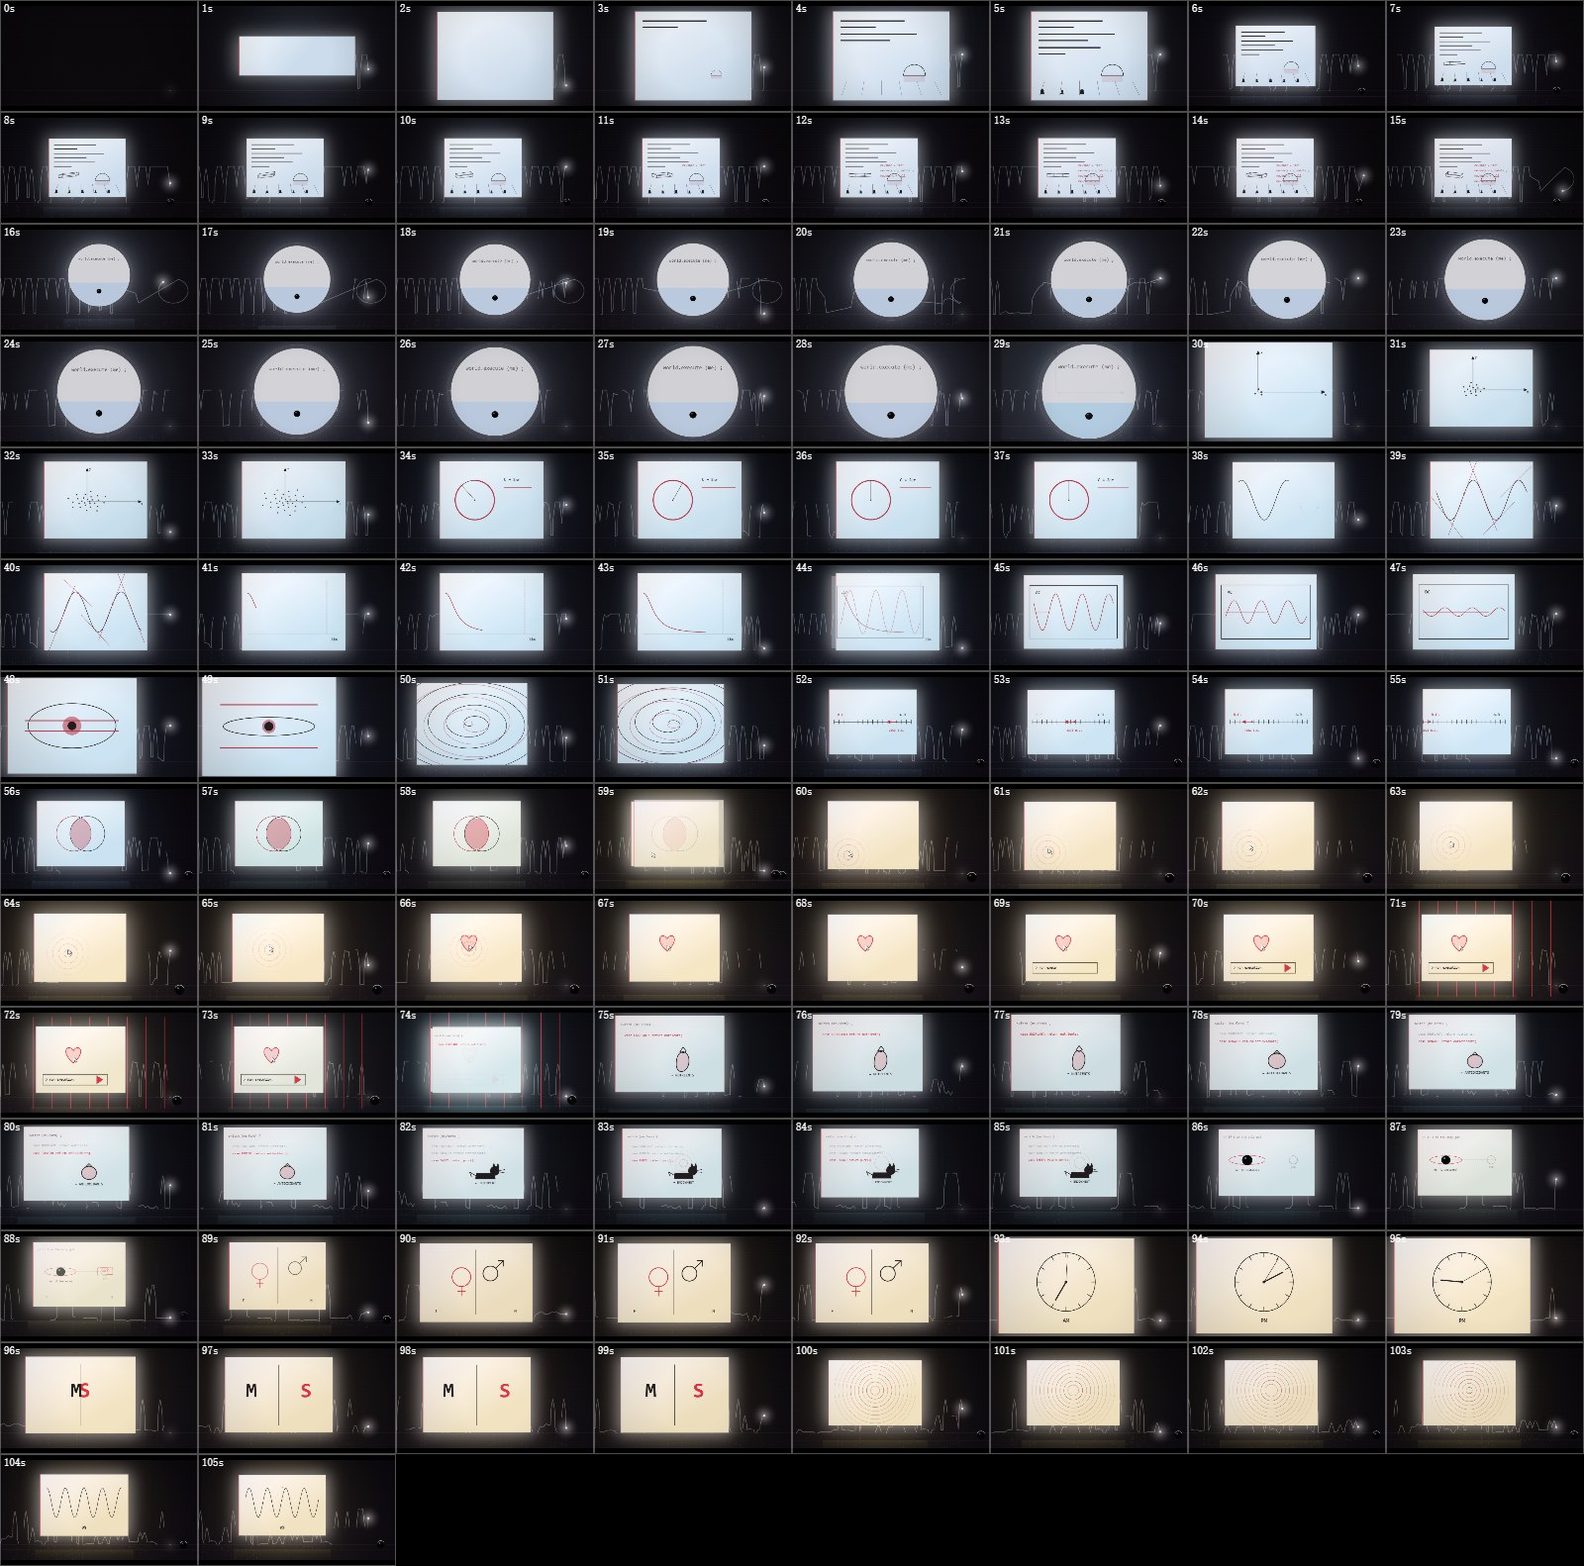
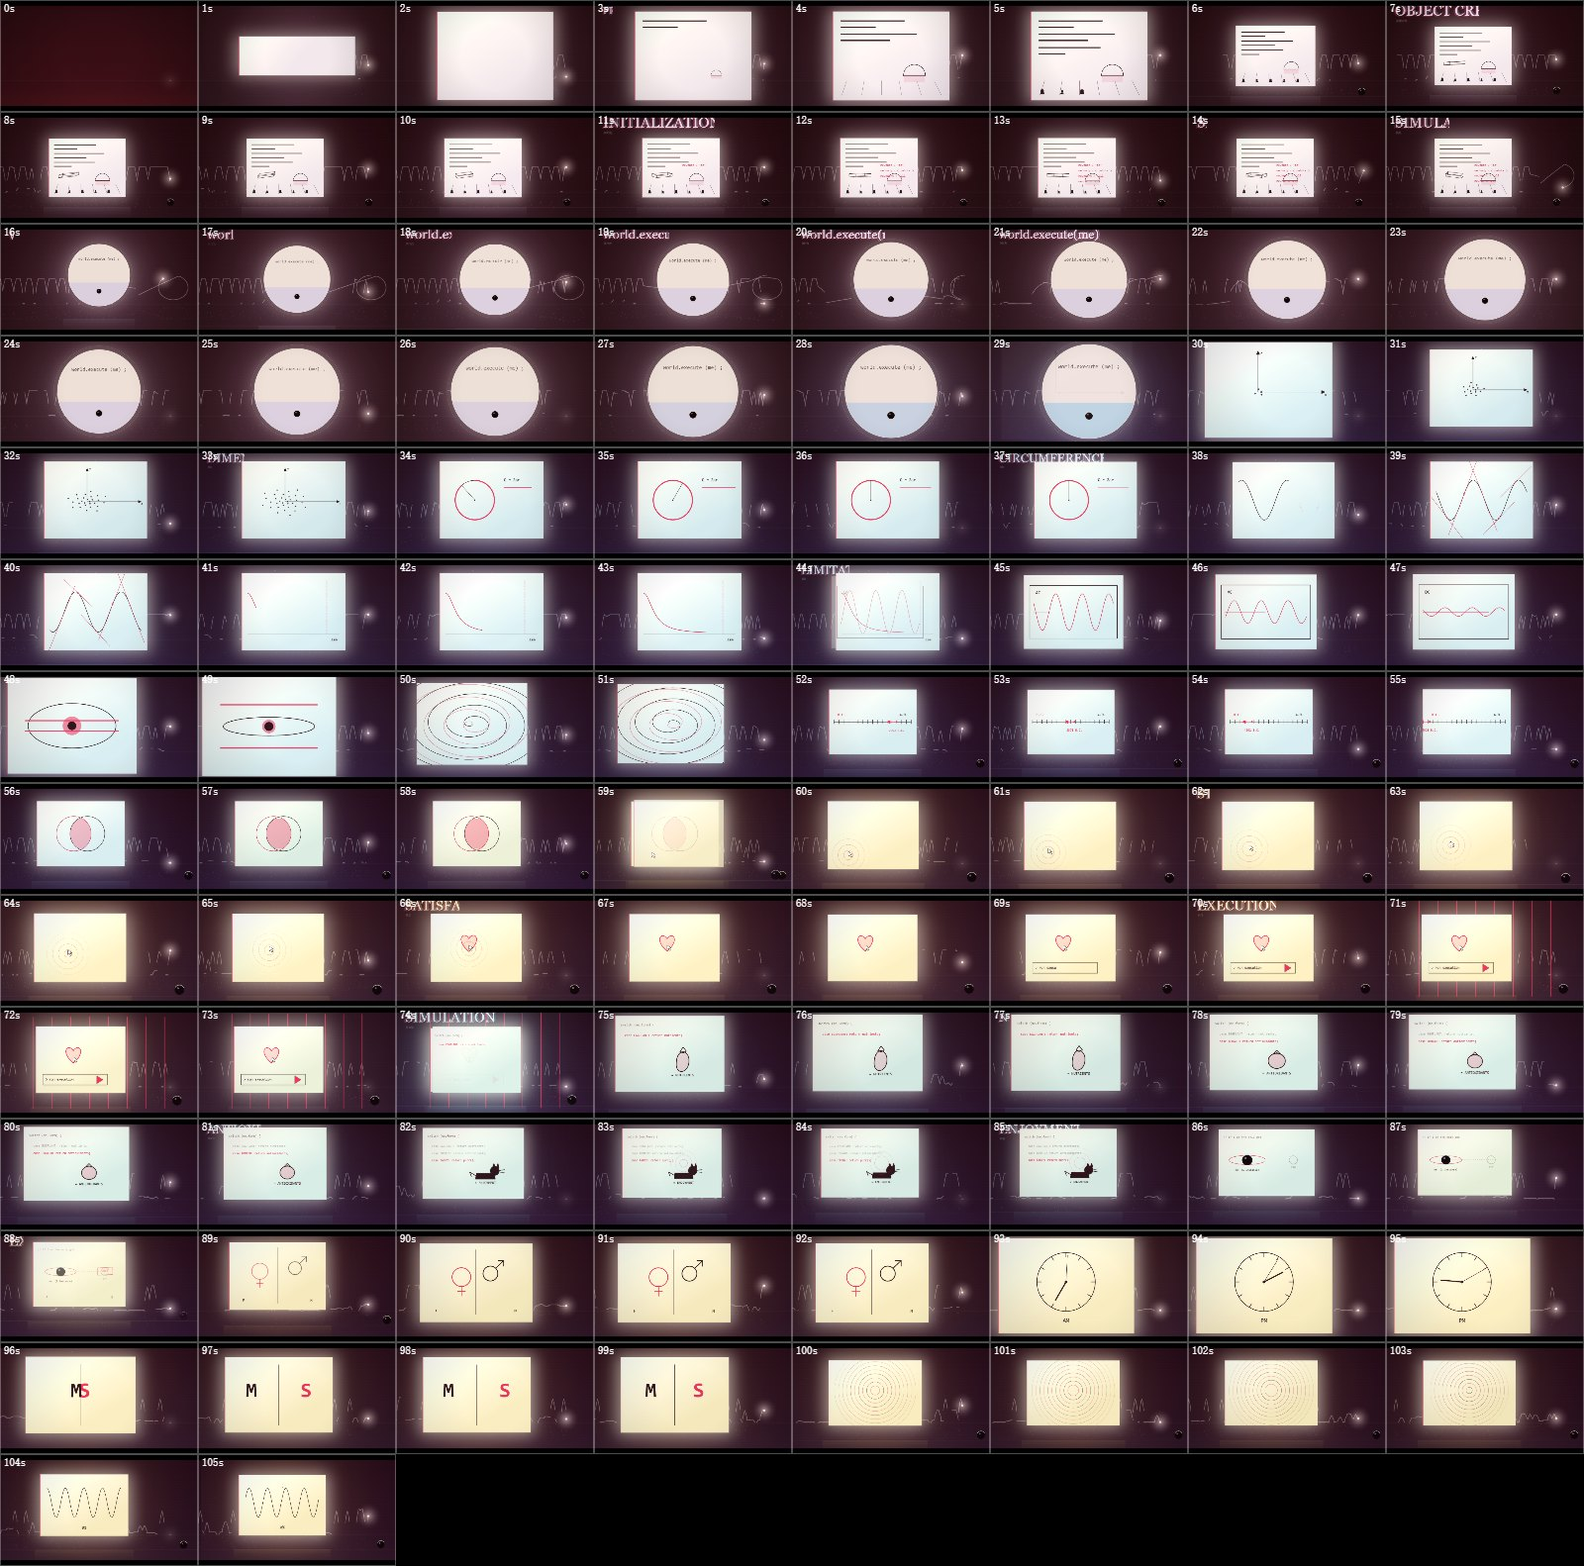
Study the two reference MVs, then break my own composition premise Pulled 16 frames each from the DeepSeek V4.1 Flash cut (Galen563, source public) and the Qwen 3.8 Flash-Next cut (OuTO7) by drawing the player's <video> into a canvas, and both converge on the same language: one colour owning the who
analysis/scroll.html builds that as a candidate: full-bleed fields, the measured melody
as one ink line on a long sheet, a camera sliding along the time axis. It disproved its
own premise -- raw f0 at 13 s per frame is a barcode, not a tune -- but it proved the
colour field and the cropped word. So only those two came back into the film:

- the room is no longer near-black; each section floods the frame with its own colour
- the stroke is quantised to semitones and breaks the pen on leaps over a major third,
  which also fixes the arpeggio passages that always read as a fence

Sweep: 25,429 frames, 0 black, 0 blown, 0 exceptions, 0 unattributed flashes; motion
0.70->0.43, minimum luminance 10->34.

diff --git a/analysis/scroll.html b/analysis/scroll.html
@@ -1,0 +1,197 @@
+<!DOCTYPE html>
+<html lang="zh-CN">
+<head>
+<meta charset="utf-8">
+<title>scroll — the camera inside the sheet</title>
+<style>
+  body { background: #0d0f14; color: #cdd6f4; font: 13px/1.6 ui-monospace, Consolas, monospace; margin: 20px; }
+  canvas { display: block; background: #000; width: 960px; margin: 10px 0; }
+</style>
+</head>
+<body>
+<h1>候选 v5：满幅色场 + 沿时间轴滑行的摄影机</h1>
+<p>两张参考联系表给出的共同结论：占满画面的颜色、巨大的居中词、仪表框、遥读列。
+这一版把"黑房里一张小亮纸"换掉——整首歌的实测旋律是纸上的一条墨线，画面是沿它向右滑行的窗口。
+<button onclick="go()">render</button> <span id="st"></span></p>
+<div id="out"></div>
+<script src="../mv/music.data.js"></script>
+<script src="../mv/lyrics.js"></script>
+<script>
+const M = window.MUSIC, META = M.meta, HOP = META.hop / META.sr;
+const SW = 12000, SH = 900;                         /* the sheet: 56.65 px per second of music */
+const VW = 1920, VH = 1080, Z = 2.6;                /* the window sees 738 x 415 sheet px = 13 s */
+const PERS = SW / META.dur;
+const RY = SH * 0.62, SPAN = SH * 0.34;             /* the rail, and how tall a figure may be */
+const clamp = (v, a, b) => v < a ? a : v > b ? b : v;
+const hex = (s) => [parseInt(s.slice(1, 3), 16), parseInt(s.slice(3, 5), 16), parseInt(s.slice(5, 7), 16)];
+const rgba = (s, a) => { const c = hex(s); return `rgba(${c[0]},${c[1]},${c[2]},${a})`; };
+
+/* one colour owns the frame; it changes where the song changes argument */
+function plate(t) {
+  if (t < 15) return { bg: '#10151c', ink: '#dfe7ef', red: '#e0455c', glow: '#7fa8cc', hot: 0.9 };
+  if (t < 44.45) return { bg: '#12233a', ink: '#e6eef7', red: '#e8506a', glow: '#5b9bd0', hot: 1.0 };   /* theorem */
+  if (t < 59.22) return { bg: '#1a2c3f', ink: '#eaf2f8', red: '#e8506a', glow: '#63a6cf', hot: 1.0 };   /* condition */
+  if (t < 74.04) return { bg: '#3a1420', ink: '#fbe9e0', red: '#ff5c72', glow: '#d9748a', hot: 1.15 };  /* chorus */
+  if (t < 88.58) return { bg: '#22301f', ink: '#eef5e6', red: '#e0685c', glow: '#8fbf7a', hot: 1.0 };   /* flesh */
+  if (t < 110.9) return { bg: '#2b1f38', ink: '#f0eaf8', red: '#e8506a', glow: '#a583d0', hot: 1.05 };  /* switches */
+  if (t < 131.22) return { bg: '#33241a', ink: '#f6ead6', red: '#e0603c', glow: '#c08a4e', hot: 0.85 }; /* absence */
+  if (t < 147.66) return { bg: '#0e1013', ink: '#c8d2da', red: '#9c3a48', glow: '#4e5f70', hot: 0.45 }; /* void */
+  if (t < 169.82) return { bg: '#6e0f1e', ink: '#ffe9e4', red: '#ff8f6a', glow: '#ff5c44', hot: 1.3 };  /* execution */
+  if (t < 177.24) return { bg: '#3d1420', ink: '#f7e2e6', red: '#ff6b78', glow: '#c9536a', hot: 1.0 };  /* rewind */
+  if (t < 193) return { bg: '#241f42', ink: '#eae7fb', red: '#e8506a', glow: '#7f7fd0', hot: 1.0 };     /* love */
+  return { bg: '#171013', ink: '#d8c6b4', red: '#a8402c', glow: '#6b4a34', hot: 0.5 };                  /* out */
+}
+function pitchAt(t) {
+  const i = t / HOP; if (i < 4 || i >= META.frames - 4) return 0;
+  const k = Math.floor(i / 4), f = i / 4 - k;
+  const a = M.f0[k * 4], b = M.f0[(k + 1) * 4]; if (!a || !b) return 0;
+  const hz = ((a + (b - a) * f) + (a + b) * 0.25) / 2.5 / 255 * 1100;
+  return hz > 55 ? hz : 0;
+}
+const ryOf = (hz) => RY - clamp(Math.log2(hz / 55) / Math.log2(1100 / 55), 0, 1) * SPAN;
+const barOf = (t) => (t - M.beat[0]) / (240 / META.bpm) + 1;
+
+/* figures and words, printed at their own moment on the sheet */
+const PRINT = [];
+window.LYRICS.forEach((l, i) => {
+  const caps = /^[A-Z0-9 .!?-]{4,}$/.test(l.en), title = l.en.indexOf('world.execute') >= 0;
+  if (!caps && !title) return;
+  const nxt = window.LYRICS[i + 1];
+  PRINT.push({ t: l.at, to: nxt ? Math.min(nxt.at, l.at + (title ? 5.4 : 3.0)) : l.at + 3.0, kind: 'word', w: l.en, cn: l.cn });
+});
+[['circle', 33.41], ['sine', 37.06], ['asym', 40.7], ['eye', 47.67], ['clock', 51.36], ['heart', 65.39],
+ ['specimen', 74.04], ['specimen', 77.57], ['specimen', 81.35], ['glyphs', 88.58], ['rings', 99.34],
+ ['star', 110.9], ['cutheart', 124.89], ['trace', 131.22], ['colonnade', 147.66], ['six', 158.9],
+ ['queue', 162.63], ['eq', 184.54], ['pane', 193]].forEach((p) => PRINT.push({ t: p[1], to: p[1] + 4.6, kind: p[0] }));
+
+function figure(g, m, P, h) {
+  g.lineWidth = 4; g.strokeStyle = P.ink; g.fillStyle = P.ink; g.textAlign = 'left';
+  if (m.kind === 'circle') { g.beginPath(); g.arc(0, 0, h * 0.40, 0, 6.283); g.stroke();
+    g.strokeStyle = P.red; g.lineWidth = 11; g.beginPath(); g.arc(0, 0, h * 0.40, -1.57, 2.3); g.stroke(); }
+  else if (m.kind === 'sine') { g.beginPath(); for (let i = 0; i <= 90; i++) { const u = i / 90, px = -h * 0.8 + u * h * 1.6, py = Math.sin(u * 6.283 * 1.5) * h * 0.28; i ? g.lineTo(px, py) : g.moveTo(px, py); } g.stroke(); }
+  else if (m.kind === 'asym') { g.beginPath(); for (let i = 0; i <= 90; i++) { const u = i / 90, px = -h * 0.8 + u * h * 1.6, py = h * 0.3 - h * 0.55 / (1 + Math.pow(u * 4.2, 2)); i ? g.lineTo(px, py) : g.moveTo(px, py); } g.stroke();
+    g.setLineDash([14, 14]); g.strokeStyle = P.red; g.lineWidth = 5; g.beginPath(); g.moveTo(h * 0.56, -h * 0.42); g.lineTo(h * 0.56, h * 0.36); g.stroke(); g.setLineDash([]); }
+  else if (m.kind === 'eye') { g.beginPath(); g.ellipse(0, 0, h * 0.62, h * 0.26, 0, 0, 6.283); g.stroke(); g.fillStyle = P.red; g.beginPath(); g.arc(0, 0, h * 0.11, 0, 6.283); g.fill(); }
+  else if (m.kind === 'clock') { g.beginPath(); g.arc(0, 0, h * 0.36, 0, 6.283); g.stroke(); g.lineWidth = 7; g.beginPath(); g.moveTo(0, 0); g.lineTo(0, -h * 0.26); g.moveTo(0, 0); g.lineTo(h * 0.18, h * 0.06); g.stroke(); }
+  else if (m.kind === 'heart' || m.kind === 'cutheart') { const r = h * 0.3; g.lineWidth = 7; g.strokeStyle = P.red;
+    g.beginPath(); g.moveTo(0, r * 0.85); g.bezierCurveTo(-r * 1.35, -r * 0.25, -r * 0.5, -r * 1.15, 0, -r * 0.35);
+    g.bezierCurveTo(r * 0.5, -r * 1.15, r * 1.35, -r * 0.25, 0, r * 0.85); g.closePath(); g.stroke();
+    if (m.kind === 'cutheart') { g.fillStyle = P.bg; g.beginPath(); g.moveTo(0, 0); g.arc(0, 0, r * 1.02, -1.97, -1.17); g.closePath(); g.fill(); } }
+  else if (m.kind === 'specimen') { g.lineWidth = 4; g.beginPath(); g.ellipse(0, h * 0.06, h * 0.2, h * 0.3, 0.2, 0, 6.283); g.stroke();
+    g.beginPath(); g.moveTo(-h * 0.06, -h * 0.24); g.lineTo(h * 0.04, -h * 0.38); g.lineTo(h * 0.14, -h * 0.22); g.stroke(); }
+  else if (m.kind === 'glyphs') { g.beginPath(); g.arc(-h * 0.26, -h * 0.08, h * 0.17, 0, 6.283); g.stroke();
+    g.beginPath(); g.arc(h * 0.26, -h * 0.14, h * 0.14, 0, 6.283); g.stroke();
+    g.beginPath(); g.moveTo(h * 0.36, -h * 0.04); g.lineTo(h * 0.48, -h * 0.16); g.moveTo(h * 0.42, -h * 0.16); g.lineTo(h * 0.42, -h * 0.02); g.stroke(); }
+  else if (m.kind === 'rings') { for (let i = 1; i <= 4; i++) { g.globalAlpha = 1 - i * 0.18; g.beginPath(); g.arc(0, 0, h * 0.12 * i, 0, 6.283); g.stroke(); } g.globalAlpha = 1; }
+  else if (m.kind === 'star') { for (let i = 0; i < 6; i++) { const a = -1.57 + i * 1.047;
+      g.lineWidth = 4; g.beginPath(); g.moveTo(0, 0); g.lineTo(Math.cos(a) * h * 0.42, Math.sin(a) * h * 0.34); g.stroke();
+      g.beginPath(); g.arc(Math.cos(a) * h * 0.42, Math.sin(a) * h * 0.34, h * 0.05, 0, 6.283); g.fill(); }
+    g.strokeStyle = P.red; g.beginPath(); g.arc(0, 0, h * 0.1, 0, 6.283); g.stroke(); }
+  else if (m.kind === 'trace') { g.strokeStyle = P.red; g.lineWidth = 4; g.strokeRect(-h * 0.52, -h * 0.4, h * 1.04, h * 0.7);
+    g.fillStyle = P.red; g.font = `500 ${h * 0.1}px ui-monospace,monospace`;
+    ['IllegalArgumentError', '  at world.execute(me.js:11)', '  at you.leave(me.js:14)', '  at me.love(me.js:7)'].forEach((s, i) =>
+      g.fillText(s, -h * 0.46, -h * 0.24 + i * h * 0.16)); }
+  else if (m.kind === 'colonnade') { for (let i = 0; i < 9; i++) { const x = -h * 0.8 + i * h * 0.2;
+      g.fillStyle = rgba(P.ink, 0.5); g.fillRect(x, -h * 0.44, h * 0.09, h * 0.88); } }
+  else if (m.kind === 'six') { g.textAlign = 'center'; g.font = `700 ${h * 0.3}px Georgia,serif`;
+    ['I', 'II', 'III'].forEach((s, i) => g.fillText(s, -h * 0.4 + i * h * 0.4, h * 0.1)); }
+  else if (m.kind === 'queue') { g.fillStyle = P.red; g.beginPath(); g.arc(h * 0.3, -h * 0.28, h * 0.07, 0, 6.283); g.fill();
+    for (let i = 0; i < 7; i++) { const x = -h * 0.6 + i * h * 0.16; g.strokeStyle = rgba(P.ink, 0.55); g.lineWidth = 2;
+      g.beginPath(); g.moveTo(x, 0); g.lineTo(h * 0.3, -h * 0.28); g.stroke(); g.beginPath(); g.arc(x, 0, h * 0.035, 0, 6.283); g.fill(); } }
+  else if (m.kind === 'eq') { g.font = `400 ${h * 0.16}px ui-monospace,monospace`; g.fillStyle = P.ink;
+    g.fillText('love(x) = lim x->inf', -h * 0.5, -h * 0.3); }
+  else if (m.kind === 'pane') { g.strokeStyle = P.ink; g.lineWidth = 4; g.strokeRect(-h * 0.2, -h * 0.3, h * 0.4, h * 0.5);
+    g.beginPath(); g.moveTo(0, -h * 0.3); g.lineTo(0, h * 0.2); g.moveTo(-h * 0.2, -h * 0.05); g.lineTo(h * 0.2, -h * 0.05); g.stroke(); }
+}
+
+function frame(t) {
+  const cv = document.createElement('canvas'); cv.width = VW; cv.height = VH;
+  const g = cv.getContext('2d');
+  const P = plate(t), span = VW / Z, camC = t * PERS;
+  g.fillStyle = P.bg; g.fillRect(0, 0, VW, VH);
+  g.save();
+  g.setTransform(Z, 0, 0, Z, VW / 2 - Z * camC, VH / 2 - Z * RY);
+  g.strokeStyle = rgba(P.ink, 0.18); g.lineWidth = 1.5;
+  g.beginPath(); g.moveTo(camC - span, RY); g.lineTo(camC + span, RY); g.stroke();
+  for (const m of PRINT) { if (m.kind === 'word') continue;
+    const x = m.t * PERS; if (x < camC - span * 0.62 || x > camC + span * 0.62) continue;
+    g.save(); g.translate(x, RY - SPAN * 0.5); figure(g, m, P, SPAN); g.restore(); }
+  g.lineWidth = 3.2; g.lineJoin = 'round'; g.lineCap = 'round'; g.strokeStyle = rgba(P.ink, 0.9);
+  let run = [];
+  const flush = () => { if (run.length > 1) { g.beginPath(); run.forEach((p, i) => i ? g.lineTo(p[0], p[1]) : g.moveTo(p[0], p[1])); g.stroke(); } run = []; };
+  for (let u = Math.max(0, t - 14); u < Math.min(META.dur, t + 14); u += 0.02) {
+    const hz = pitchAt(u); if (!hz) { flush(); continue; } run.push([u * PERS, ryOf(hz)]);
+  }
+  flush();
+  g.restore();
+  /* the word being sung: enormous, cropped by the frame */
+  const w = PRINT.find((m) => m.kind === 'word' && t >= m.t && t < m.to);
+  if (w) {
+    const u = clamp((t - w.t) / (w.to - w.t), 0, 1), size = VH * 0.19;
+    const x = (w.t * PERS - camC) * Z + VW * 0.06, y = VH * 0.24;
+    g.save(); g.textAlign = 'left'; g.textBaseline = 'middle';
+    g.font = `300 ${size}px Georgia,"Times New Roman",serif`;
+    g.beginPath(); g.rect(0, 0, x + 20 + g.measureText(w.w).width * u + 6, VH); g.clip();
+    g.fillStyle = rgba(P.red, 0.5); g.fillText(w.w, x - 6, y + 4);
+    g.fillStyle = rgba(P.glow, 0.5); g.fillText(w.w, x + 6, y - 4);
+    g.fillStyle = rgba(P.ink, 0.95); g.fillText(w.w, x, y);
+    g.restore();
+    g.save(); g.globalAlpha = clamp(u * 2); g.fillStyle = rgba(P.ink, 0.45);
+    g.font = `300 ${Math.round(size * 0.16)}px Georgia,serif`; g.textAlign = 'left'; g.textBaseline = 'middle';
+    g.fillText(w.cn, x + 4, y + size * 0.62); g.restore();
+  }
+  /* the machine's own telemetry, reading as the argument goes */
+  g.save(); g.font = '13px ui-monospace,monospace'; g.fillStyle = rgba(P.ink, 0.42);
+  const rows = [['state', t < 131 ? 'RUNNING' : t < 147 ? 'HALTED' : t < 169 ? 'SENTENCED' : 'EXITING'],
+                ['heart', t < 124.89 ? 'uninitialised' : 'null'],
+                ['affection', 'unbounded'],
+                ['distance', t < 110.9 ? 'increasing' : 'infinite'],
+                ['you', t < 110.9 ? 'present' : 'null']];
+  rows.forEach((r, i) => g.fillText(r[0] + '()', 26, 150 + i * 26));
+  g.textAlign = 'right';
+  rows.forEach((r, i) => g.fillText(r[1], VW - 26, 150 + i * 26));
+  g.textAlign = 'left'; g.fillStyle = rgba(P.red, 0.8); g.fillRect(26, 60, VW - 52, 2);
+  g.font = '13px ui-monospace,monospace';
+  g.fillText('world.execute(me);  //  ' + t.toFixed(2) + ' s', 26, 50);
+  g.textAlign = 'right'; g.fillStyle = rgba(P.ink, 0.5);
+  g.fillText('bar ' + Math.floor(barOf(t)) + '   ' + META.bpm.toFixed(2) + ' bpm', VW - 26, 50); g.restore();
+  /* the lamp travels with the window */
+  const cx = VW / 2, cy = VH * 0.5;
+  g.save(); g.globalCompositeOperation = 'multiply';
+  const pool = g.createRadialGradient(cx, cy, VH * 0.14, cx, cy, VH * 1.05);
+  const q = Math.round(255 * clamp(P.hot, 0, 1));
+  pool.addColorStop(0, 'rgba(255,255,255,1)');
+  pool.addColorStop(0.4, `rgba(${q},${q},${Math.min(255, q + 10)},1)`);
+  pool.addColorStop(1, 'rgba(10,10,14,1)');
+  g.fillStyle = pool; g.fillRect(0, 0, VW, VH); g.restore();
+  g.save(); g.globalCompositeOperation = 'lighter';
+  const bl = g.createRadialGradient(cx, cy, 0, cx, cy, VH * 0.8);
+  bl.addColorStop(0, rgba(P.glow, 0.1 * P.hot)); bl.addColorStop(1, 'rgba(0,0,0,0)');
+  g.fillStyle = bl; g.fillRect(0, 0, VW, VH); g.restore();
+  /* the playhead */
+  const hz = pitchAt(t), hy = hz ? cy + Z * (RY - ryOf(hz)) : cy;
+  g.save(); g.globalCompositeOperation = 'lighter';
+  const hd = g.createRadialGradient(cx, hy, 0, cx, hy, 80);
+  hd.addColorStop(0, rgba(P.ink, hz ? 0.75 : 0.14)); hd.addColorStop(1, 'rgba(0,0,0,0)');
+  g.fillStyle = hd; g.fillRect(cx - 80, hy - 80, 160, 160); g.restore();
+  g.fillStyle = rgba(P.ink, hz ? 0.95 : 0.3); g.beginPath(); g.arc(cx, hy, 5, 0, 6.283); g.fill();
+  g.save(); g.globalAlpha = 0.05;
+  for (let i = 0; i < 2200; i++) { g.fillStyle = i % 2 ? '#fff' : '#000'; g.fillRect((i * 7919) % VW, (i * 104729) % VH, 1.6, 1.6); }
+  g.restore();
+  return cv;
+}
+
+async function go() {
+  const out = document.getElementById('out'); out.innerHTML = '';
+  for (const t of [17, 36, 42, 66, 79, 112, 132, 150, 160, 190]) {
+    const cv = frame(t); out.appendChild(cv);
+    const blob = await new Promise((r) => cv.toBlob(r, 'image/jpeg', 0.9));
+    await fetch('/save-v5-' + t + '.jpg', { method: 'POST', body: blob });
+    document.getElementById('st').textContent = 'at ' + t + ' s';
+  }
+  document.getElementById('st').textContent = 'done';
+}
+go();
+</script>
+</body>
+</html>

diff --git a/mv/story.js b/mv/story.js
@@ -29,15 +29,15 @@ window.STORY = {
     /* the title card inside the globe: warmer, softer, the lamp has settled */    interlude: { room0: '#080b10', room1: '#151d27', page: '#f2f1ea', ink: '#20272f', accent: '#b3263a', rim: '#d8e4ef', glow: '#a8c2da', lum: 0.68 },
     /* the instance is writing: the brightest, most neutral reading light of the film */
     /* the verses: a Prussian-blue night, one blue plus the ink and the one red */
-    verse:     { room0: '#03080f', room1: '#0a1c31', page: '#cfe1f4', ink: '#132131', accent: '#b3263a', rim: '#a8cdec', glow: '#4f8cc8', lum: 0.74 },
+    verse:     { room0: '#0a1a2e', room1: '#153354', page: '#cfe1f4', ink: '#132131', accent: '#b3263a', rim: '#a8cdec', glow: '#4f8cc8', lum: 0.74 },
     /* the chorus: black, vermilion and gold — the same three-plate discipline, warmer */
-    chorus:    { room0: '#0d0708', room1: '#2b1610', page: '#f9e3bd', ink: '#2a1c14', accent: '#e0344f', rim: '#f0cfa0', glow: '#d98b34', lum: 0.86 },
+    chorus:    { room0: '#200b0a', room1: '#4a1a12', page: '#f9e3bd', ink: '#2a1c14', accent: '#e0344f', rim: '#f0cfa0', glow: '#d98b34', lum: 0.86 },
     /* you have left: the lamp browns and drops */
     collapse:  { room0: '#08070a', room1: '#141114', page: '#ddd0b8', ink: '#2b2419', accent: '#a8402c', rim: '#b9a98d', glow: '#8c7a5e', lum: 0.40 },
     /* nothing scheduled: barely lit, the page is almost out of the room */
     dusk:      { room0: '#050608', room1: '#0b0e12', page: '#9fa4a6', ink: '#171a1c', accent: '#7c2a38', rim: '#7e8a96', glow: '#5f6f7e', lum: 0.20 },
     /* EXECUTION: the room turns the colour of the verdict, and the page is the warrant */
-    execution: { room0: '#0b0305', room1: '#210810', page: '#f3ece0', ink: '#2a0d14', accent: '#ff2d55', rim: '#e8b8c0', glow: '#b3263a', lum: 0.30 },
+    execution: { room0: '#2a0509', room1: '#5c0d18', page: '#f3ece0', ink: '#2a0d14', accent: '#ff2d55', rim: '#e8b8c0', glow: '#b3263a', lum: 0.30 },
     /* the answer: a pale violet-cold light, gentler than the verses */
     reveal:    { room0: '#07070f', room1: '#181a33', page: '#e3e4f8', ink: '#1e2030', accent: '#c02a44', rim: '#c6cbee', glow: '#7f88d6', lum: 0.70 },
     /* the light going out of the room */

diff --git a/mv/line.js b/mv/line.js
@@ -93,14 +93,17 @@ function melody(g, t, W, H, pal, camZ) {
   const pts = [];
   for (let u = t - LOOK; u <= t + 1e-6; u += step) {
     const hz = pitch(u);
-    let x = xOf(u), y = hz ? yOf(hz) : rail, live = hz > 0;
+    /* quantised to the semitone it is singing, so a held note is one flat run instead of a
+       scatter of near-equal samples — the raw contour reads as a barcode at this compression */
+    let x = xOf(u), y = hz ? yOf(55 * Math.pow(2, Math.round(12 * Math.log2(hz / 55)) / 12)) : rail, live = hz > 0;
     const sh = shapeBlend(u);
     if (sh) {
       /* park the figure in the dark band to the right of the sheet. The page already carries the
          labelled diagram — the proof — so the stroke's shape must not compete with it; the line
          is the performance, and it takes the shape it is singing about out in the room. */
       const rad = Math.min(span * 0.5, W * 0.075);
-      const wide = sh.kind === 'bars' || sh.kind === 'flat';      const ax = rad * (wide ? 2.2 : 1), ay = rad * (wide ? 0.7 : 1);
+      const wide = sh.kind === 'bars' || sh.kind === 'flat';
+      const ax = rad * (wide ? 2.2 : 1), ay = rad * (wide ? 0.7 : 1);
       const sx = W * 0.875, cy = rail - span * 0.52;
       const q = shapePath(sh.kind, sh.s);
       const unwind = clamp((t - u - (LOOK - 2.4)) / 1.5, 0, 1);
@@ -146,7 +149,9 @@ function melody(g, t, W, H, pal, camZ) {
     };
     for (const p of pts) {
       if (!p.live) { flush(); continue; }
-      if (run.length && Math.abs(p.a - run[run.length - 1].a) > 0.12) flush();
+      /* a leap bigger than a fourth is not a slide, it is two notes: end the run, leave the gap */
+      if (run.length && (Math.abs(p.a - run[run.length - 1].a) > 0.12 ||
+          Math.abs(p.y - run[run.length - 1].y) > H * 0.03)) flush();
       run.push(p);
     }
     flush(); g.restore();
